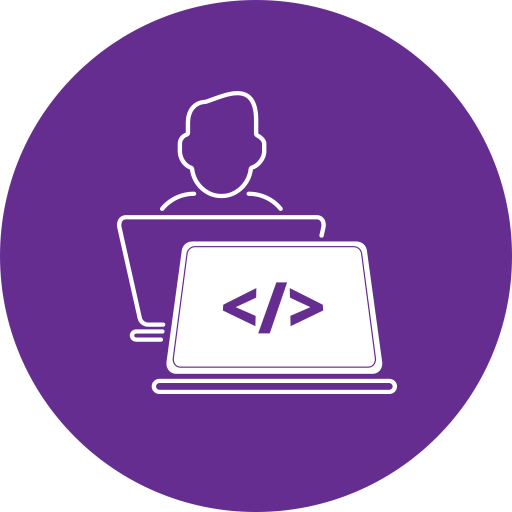
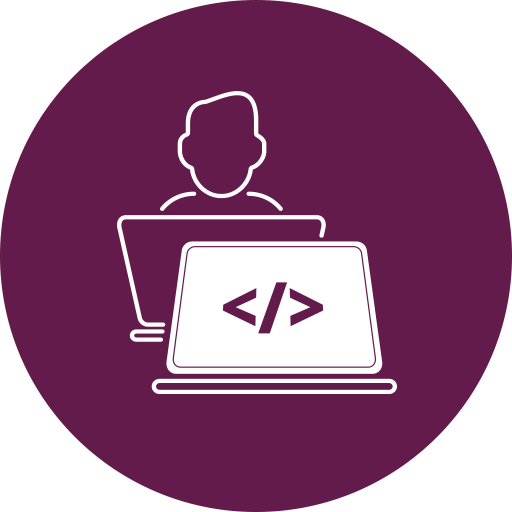
v16.032 Eggplant

diff --git a/index.html b/index.html
@@ -252,11 +252,11 @@
             
             <br clear="left" />
         </div>
-        <div class="agenda" style="background-color: rgb(42,42,42); padding-top: 75px;">
+        <div class="agenda" style="background-color: rgb(38,38,38); padding-top: 75px;">
         	<div class="agenda-half" style="width: 92%;">
             	<strong style="letter-spacing: -3px; display: block; padding-bottom: 10px;">————</strong>
             	<span class="agenda-day">June 13 2016 | 11:00-19:00</span>
-            	<h3 style="color: #863bbf;">Hackathon Party</h3>
+            	<h3 style="color: #802462; font-weight: 400;">Hackathon Party</h3>
                 <h4>Developer pre-event</h4>
                 This pre-event hackathon party is open to any developer willing to play with and test <a href="http://www.legato.io" target="_blank">Legato™</a>, <a href="http://www.sierrawireless.com/products-and-solutions/embedded-solutions/wp-series" target="_blank">WP</a>, <a href="http://www.legato.io" target="_blank">Legato™</a>, <a href="http://www.sierrawireless.com/products-and-solutions/cloud-and-connectivity-solutions/airvantage" target="_blank">AirVantage<sup>&reg;</sup></a>, HL shields for Raspberry Pi & Arduino and multiple accessories, with the support of Sierra Wireless experts. Feel free to join any time and stay with us for as long as you want. Registration required (for no additional fee if you are attending the June 14 Innovation Summit).
                 <h5>Morning | <span class="time">11:00-15:00</span></h5>

diff --git a/resources/css/style.css b/resources/css/style.css
@@ -932,7 +932,7 @@ div.agenda .agenda-content h6.red {
 }
 
 div.agenda .agenda-content h6.purple {
-	color: #863bbf;
+	color: #802462; /*863bbf;*/
 }
 
 div.agenda .agenda-content h6.fresh {
